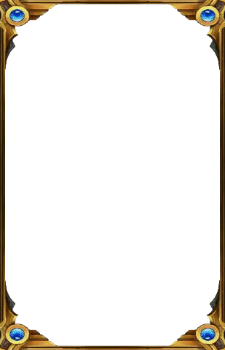
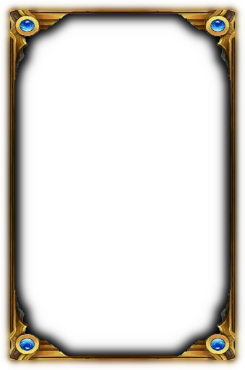
Melhorias nos efeitos das bordas de cartas

diff --git a/src/main/java/com/kuuhaku/model/common/KawaiponBook.java b/src/main/java/com/kuuhaku/model/common/KawaiponBook.java
@@ -30,19 +30,19 @@ import java.util.*;
 public class KawaiponBook {
 	private final Set<KawaiponCard> cards;
 	private static final Point[] slots = {
-			new Point(190, 144),
-			new Point(410, 144),
-			new Point(630, 144),
-			new Point(850, 144),
-			new Point(1070, 144),
-			new Point(1290, 144),
+			new Point(180, 134),
+			new Point(400, 134),
+			new Point(620, 134),
+			new Point(840, 134),
+			new Point(1060, 134),
+			new Point(1280, 134),
 
-			new Point(190, 422),
-			new Point(410, 422),
-			new Point(630, 422),
-			new Point(850, 422),
-			new Point(1070, 422),
-			new Point(1290, 422)
+			new Point(180, 412),
+			new Point(400, 412),
+			new Point(620, 412),
+			new Point(840, 412),
+			new Point(1060, 412),
+			new Point(1280, 412)
 	};
 
 	public KawaiponBook(Set<KawaiponCard> cards) {
@@ -73,7 +73,7 @@ public class KawaiponBook {
 			g2d.setRenderingHint(RenderingHints.KEY_ANTIALIASING, RenderingHints.VALUE_ANTIALIAS_ON);
 
 			for (int i = 0; i < chunk.size(); i++) {
-				g2d.drawImage(chunk.get(i).getCard(), slots[i].x, slots[i].y, 167, 260, null);
+				g2d.drawImage(chunk.get(i).getCard(), slots[i].x, slots[i].y, 187, 280, null);
 			}
 
 			g2d.dispose();

diff --git a/src/main/java/com/kuuhaku/utils/Helper.java b/src/main/java/com/kuuhaku/utils/Helper.java
@@ -891,7 +891,7 @@ public class Helper {
 	}
 
 	public static void spawnKawaipon(GuildConfig gc, TextChannel channel) {
-		if (Helper.rng(100) > 95 - (channel.getGuild().getMemberCount() * 5 / 5000)) {
+		if (Helper.rng(200) > 195 - (channel.getGuild().getMemberCount() * 15 / 5000)) {
 			KawaiponCard kc = KawaiponCard.values()[Helper.rng(KawaiponCard.values().length)];
 
 			EmbedBuilder eb = new EmbedBuilder();
